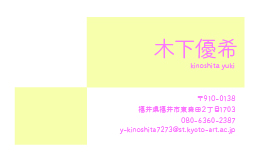
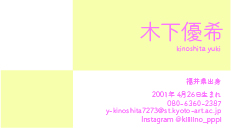
meisi

Changed region(s): [[0.0, 0.0, 1.0, 1.0], [0.4545, 0.5938, 0.9697, 0.9688]]

diff --git a/namecard.html b/namecard.html
@@ -11,7 +11,7 @@
       <div class="info">
         <div class="name">山田一郎</div>
         <div class="txt">
-          <img class="frame" src="./images/namecard4-100.jpg" alt="">
+          <img class="frame" src="./images/namecard2-100.jpg" alt="">
         </div>
       </div>
       <div class="btns">
